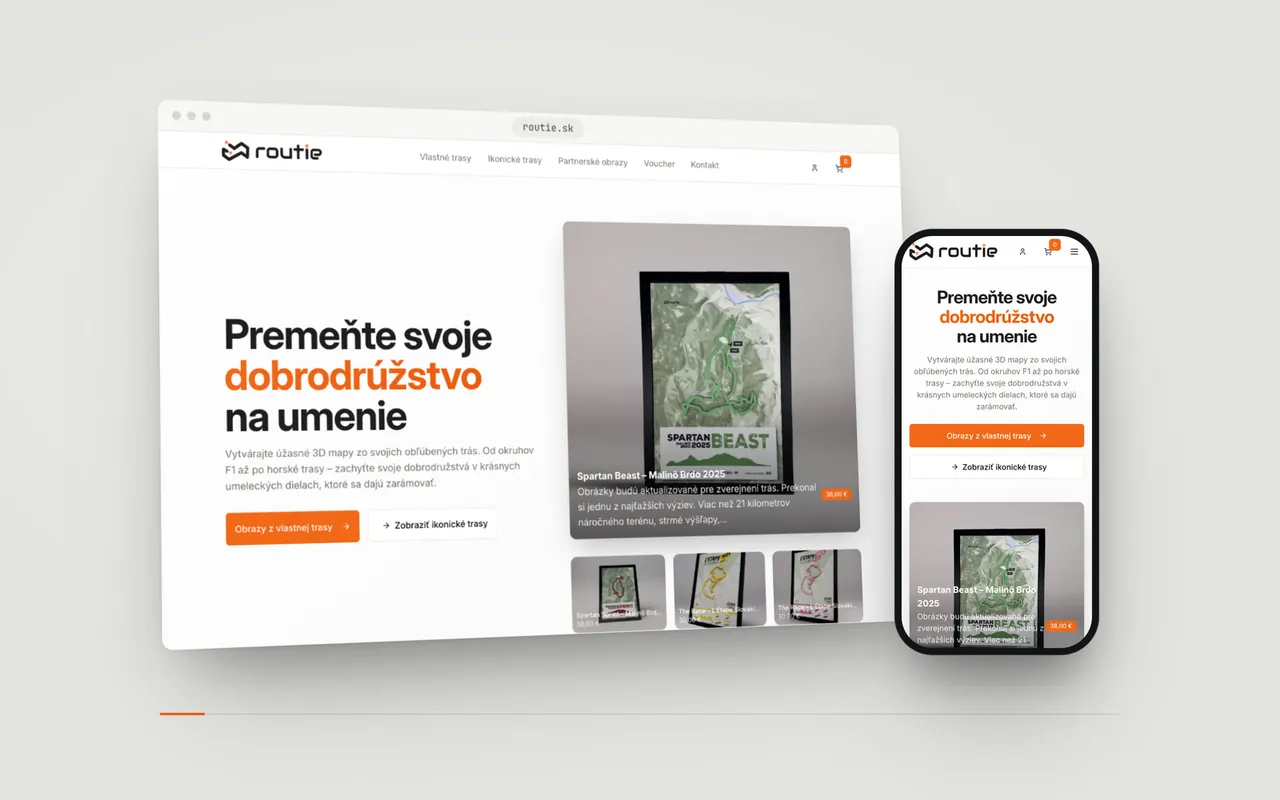
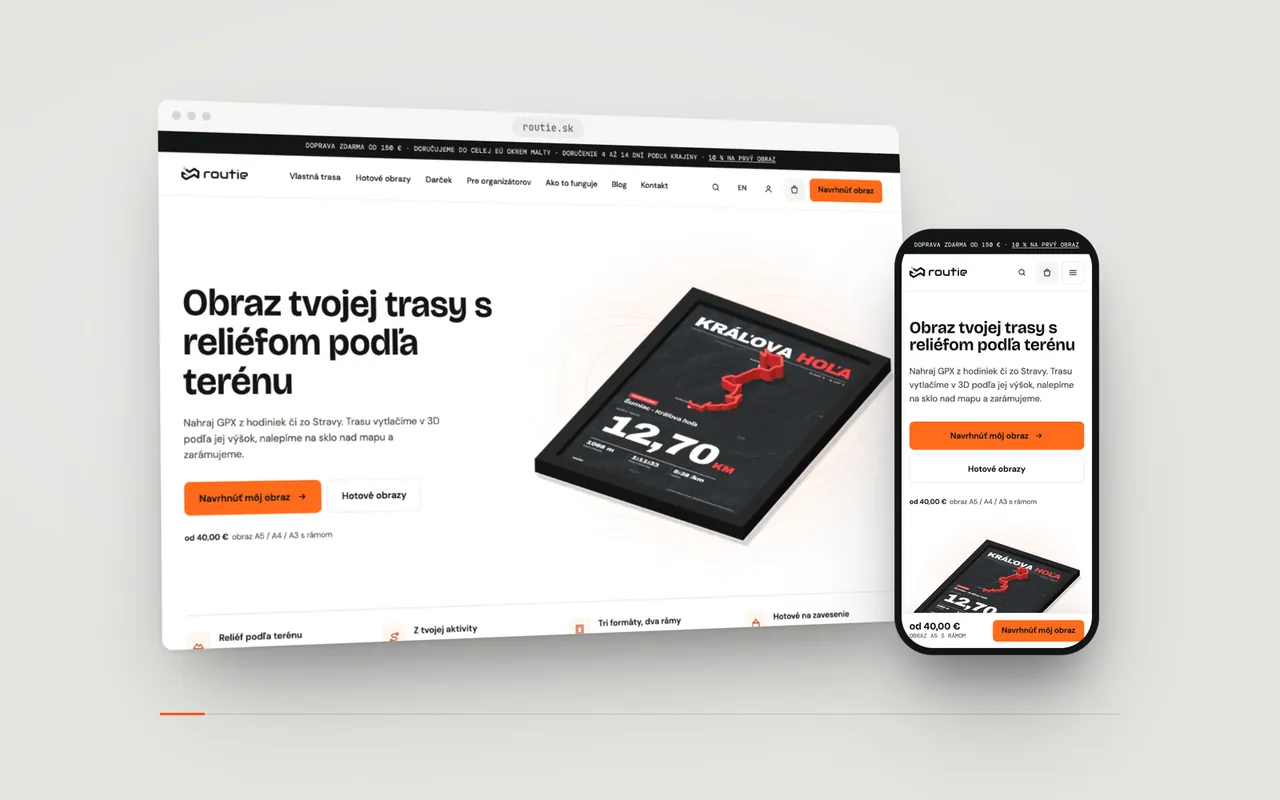
feat: describe Routie and Second Brain as they are today (#56)
Routie moved off WooCommerce on 7 November 2026 to its own Next.js
platform with a 3D configurator, so the card, the drawer and the
screenshot now show that platform. The facts follow the verified
Routie case study on denva.studio.

Second Brain is turning into an autonomous development platform:
tickets with acceptance criteria, an isolated multi-slot agent runner
and passkey approvals are live, the merge gate and staging deploy are
marked as in development.

The chat agent reads these facts, so the prompt revision is bumped.

Claude-Session: https://claude.ai/code/session_01GhjQq6FoLjw4fwNvkfQ3t9

diff --git a/shared/project-details-sk.ts b/shared/project-details-sk.ts
@@ -5,15 +5,17 @@ import type { ProjectDetailsBySlug } from './projects';
 // Every scope item is backed by the project's source code; keep it that way when editing.
 export const PROJECT_DETAILS_SK: ProjectDetailsBySlug = {
   'second-brain': {
-    summary: 'Osobný systém, ktorý zbiera poznámky, e-maily, články, hlasové správy aj fotky, triedi ich cez Claude a robí z nich prehľadávateľnú znalostnú bázu. Beží na dvoch miestach: riadiaca vrstva na Hetzner VPS, prepis reči, OCR a agenti na stále zapnutom Macu, prepojené cez Tailscale.',
+    summary: 'Osobný systém, ktorý zbiera poznámky, e-maily, články, hlasové správy aj fotky do prehľadávateľnej znalostnej bázy a postupne sa mení na autonómnu vývojovú platformu: agenti prevezmú úlohu s akceptačnými kritériami, naplánujú ju, implementujú a overia, človek schvaľuje len kľúčové kroky. Beží na Hetzner VPS a stále zapnutom Mac mini, prepojených cez Tailscale.',
     scope: [
       'RAG nad PostgreSQL 17 a pgvector: embeddingy bge-m3 v HNSW indexe, hybridné vyhľadávanie (vektory, fulltext a trigramy) spojené cez reciprocal rank fusion a reranker bge-reranker-v2-m3',
-      'Odpovede s citovanými zdrojmi a vlastný MCP server s nástrojmi na vyhľadávanie, otázky, zachytávanie poznámok a úlohy',
-      'Telegram bot na zachytávanie obsahu, rozhovor s asistentom a schvaľovanie krokov agentov',
-      'Coding agent nad Claude Agent SDK v oddelených git worktrees, v sandboxe bez prístupových údajov, s plánom na schválenie v Telegrame a pull requestom cez GitHub App',
-      'Na Apple Silicon: prepis reči cez mlx-whisper (aj v slovenčine) a OCR cez Apple Vision',
-      'Plánované joby vo fronte pg-boss: denné súhrny, kompilácia stránok znalostnej bázy, údržba a samoopravné úlohy',
-      'Docker Compose, Caddy a Cloudflare Access, deploy so zálohou databázy, health checkom a automatickým rollbackom, nočné zálohy s týždenným testom obnovy',
+      'Odpovede s citovanými zdrojmi, vlastný MCP server a Telegram bot na zachytávanie obsahu a rozhovor s asistentom',
+      'Úlohy s akceptačnými kritériami, ktoré sa pri schválení plánu zmrazia, a pravidlá autonómie pre každú organizáciu a projekt',
+      'Agent runner s piatimi paralelnými slotmi: každý beží ako samostatný systémový používateľ s vlastnými pravidlami firewallu a úlohy sa po páde obnovia',
+      'Schvaľovanie v dashboarde po overení passkey, Telegram posiela len odkaz na rozhodnutie',
+      'Znalosti v obyčajných súboroch verzovaných v gite, rozhodnutia zachytené na konci každej session a Command Center v SwiftUI s frontou toho, čo čaká na rozhodnutie',
+      'Na Apple Silicon: prepis reči cez mlx-whisper (aj v slovenčine) a OCR cez Apple Vision, plánované joby vo fronte pg-boss',
+      'Docker Compose a Caddy, deploy so zálohou databázy, health checkom a automatickým rollbackom, nočné zálohy s testom obnovy',
+      'Vo vývoji: merge gate a nasadenie na staging bez zásahu človeka, do produkcie až po schválení',
     ],
   },
   narodnyfutbalovystadion: {
@@ -50,13 +52,15 @@ export const PROJECT_DETAILS_SK: ProjectDetailsBySlug = {
     ],
   },
   routie: {
-    summary: 'Vlastný e-shop, kde si zákazník nahrá GPX trasu z behu, bicykla alebo túry a hneď vidí, ako bude vyzerať na mape. Ďalšia generácia s 3D reliéfom terénu a exportom pre 3D tlač je vo vývoji.',
+    summary: 'Vlastný produkt: obrazy z nahratých trás, kde je trasa vytlačená na 3D tlačiarni ako reliéf a nalepená na skle nad mapou v ráme. E-shop aj konfigurátor stoja na vlastnej platforme postavenej od nuly, ktorá od 7. 11. 2026 nahradila pôvodný WooCommerce obchod na routie.sk a routie.eu.',
     scope: [
-      'Nahratie GPX cez AJAX s overením typu a súkromným úložiskom, súbor putuje ďalej s objednávkou',
-      'Parsovanie GPX v prehliadači a vykreslenie trasy na mape MapLibre GL',
-      'Personalizácia: nadpis, podnadpis, popis a až 4 vlastné štatistiky, ktoré prechádzajú do košíka, objednávky, administrácie aj e-mailov',
-      'WooCommerce so Stripe, Packetou, PDF faktúrami a WPML',
-      'Vo vývoji: Next.js 16 a React 19 platforma s Postgres a Drizzle, 3D konfigurátor v three.js s reliéfom terénu a exportom STL v milimetroch, tlačové PDF a e2e testy',
+      'Vlastná commerce platforma: Next.js s App Routerom, TypeScript v strict režime, PostgreSQL a Drizzle; jadro je oddelené od Routie vrstvy a CI to overuje pokladňou syntetického obchodu bez jediného Routie balíka',
+      '3D konfigurátor v three.js a react-three-fiber: GPX, TCX alebo KML rozpoznané podľa obsahu súboru, 25 šablón, 3 formáty, 2 rámy a 17 mapových štýlov',
+      'Z jedného renderovacieho priechodu vznikne tlačové PDF v 300 dpi, náhľad pre zákazníka aj binárne STL v milimetroch, takže náhľad a výroba nemôžu opisovať dva rôzne obrazy',
+      'Kontrola pred výrobou: náhľad sa porovná s tlačovým súborom a pri odchýlke sa tlač zastaví, kým ju operátor neodomkne s dôvodom; render beží izolovane bez prístupu k databáze a sieti',
+      'Vlastné mapové dlaždice PMTiles (vyše 600 GB z OpenFreeMap a Mapterhorn), v žiadnej mapovej požiadavke nie je cudzí API kľúč',
+      'Stripe Payment Element s kartou, Apple Pay a Google Pay, Packeta do 26 krajín EÚ, slovenčina a angličtina na dvoch doménach',
+      'Prechod z WooCommerce so 129 presmerovaniami, všetky overené naživo',
     ],
   },
   monkeystudios: {

diff --git a/shared/project-details-en.ts b/shared/project-details-en.ts
@@ -5,15 +5,17 @@ import type { ProjectDetailsBySlug } from './projects';
 // Every scope item is backed by the project's source code; keep it that way when editing.
 export const PROJECT_DETAILS_EN: ProjectDetailsBySlug = {
   'second-brain': {
-    summary: 'A personal system that collects notes, emails, articles, voice messages and photos, classifies them with Claude and turns them into a searchable knowledge base. It runs in two places: the control plane on a Hetzner VPS, speech to text, OCR and agents on an always-on Mac, connected over Tailscale.',
+    summary: 'A personal system that collects notes, emails, articles, voice messages and photos into a searchable knowledge base, and is turning into an autonomous development platform: agents take a ticket with acceptance criteria, plan it, implement it and verify it, while a human approves only the key steps. It runs on a Hetzner VPS and an always-on Mac mini, connected over Tailscale.',
     scope: [
       'RAG on PostgreSQL 17 and pgvector: bge-m3 embeddings in an HNSW index, hybrid search (vectors, full text and trigrams) merged with reciprocal rank fusion and a bge-reranker-v2-m3 reranker',
-      'Answers with cited sources and its own MCP server with tools for search, questions, note capture and tasks',
-      'Telegram bot for capturing content, chatting with the assistant and approving agent steps',
-      'Coding agent on the Claude Agent SDK in separate git worktrees, sandboxed without credentials, with plans approved in Telegram and pull requests opened by a GitHub App',
-      'On Apple Silicon: speech to text with mlx-whisper (Slovak included) and OCR with Apple Vision',
-      'Scheduled jobs on a pg-boss queue: daily digests, knowledge base page compilation, maintenance and self-healing tasks',
-      'Docker Compose, Caddy and Cloudflare Access, deploys with a database backup, health check and automatic rollback, nightly backups with a weekly restore test',
+      'Answers with cited sources, its own MCP server and a Telegram bot for capturing content and chatting with the assistant',
+      'Tickets with acceptance criteria that freeze when the plan is approved, and autonomy rules per organisation and project',
+      'An agent runner with five parallel slots: each runs as a separate OS user with its own firewall rules, and work is recovered after a crash',
+      'Approvals in the dashboard behind a passkey check, Telegram only sends a link to the decision',
+      'Knowledge in plain files versioned in git, decisions captured at the end of every session, and a SwiftUI Command Center with a queue of what waits for a decision',
+      'On Apple Silicon: speech to text with mlx-whisper (Slovak included) and OCR with Apple Vision, scheduled jobs on a pg-boss queue',
+      'Docker Compose and Caddy, deploys with a database backup, health check and automatic rollback, nightly backups with a restore test',
+      'In development: a merge gate and staging deploys with no human in the loop, production only after approval',
     ],
   },
   narodnyfutbalovystadion: {
@@ -50,13 +52,15 @@ export const PROJECT_DETAILS_EN: ProjectDetailsBySlug = {
     ],
   },
   routie: {
-    summary: 'Own online store where customers upload a GPX route from a run, ride or hike and instantly see it on a map. The next generation, with 3D terrain relief and export for 3D printing, is in development.',
+    summary: 'Own product: prints of uploaded routes, where the route is 3D printed as a relief and glued onto glass above a map inside a frame. The shop and the configurator run on a custom platform built from scratch, which replaced the original WooCommerce store on routie.sk and routie.eu on 7 November 2026.',
     scope: [
-      'GPX upload over AJAX with a type check and private storage, the file travels with the order',
-      'GPX parsed in the browser and drawn as a route on a MapLibre GL map',
-      'Personalisation: headline, subtitle, description and up to 4 custom stats carried into the cart, order, admin and emails',
-      'WooCommerce with Stripe, Packeta, PDF invoices and WPML',
-      'In development: a Next.js 16 and React 19 platform with Postgres and Drizzle, a three.js 3D configurator with terrain relief and STL export in millimetres, print PDFs and e2e tests',
+      'Custom commerce platform: Next.js with the App Router, strict TypeScript, PostgreSQL and Drizzle; the core is separated from the Routie layer and CI proves it with a synthetic shop that checks out without loading a single Routie package',
+      'A 3D configurator in three.js and react-three-fiber: GPX, TCX or KML detected from the file contents, 25 templates, 3 formats, 2 frames and 17 map styles',
+      'One render pass produces the 300 dpi print PDF, the customer proof and a binary STL in millimetres, so the proof and the production files cannot describe two different prints',
+      'A check before production: the proof is compared with the print file and a mismatch blocks printing until an operator clears it with a reason; the render runs isolated, with no access to the database or the network',
+      'Self-hosted PMTiles map tiles (over 600 GB from OpenFreeMap and Mapterhorn), with no third-party API key in any map request',
+      'Stripe Payment Element with card, Apple Pay and Google Pay, Packeta to 26 EU countries, Slovak and English on two domains',
+      'The move off WooCommerce with 129 redirects, all verified on the live host',
     ],
   },
   monkeystudios: {

diff --git a/shared/projects.ts b/shared/projects.ts
@@ -42,10 +42,10 @@ export const PROJECT_INFO: readonly ProjectInfo[] = [
     slug: 'second-brain',
     context: 'own',
     featured: true,
-    kind: { sk: 'Osobný AI systém', en: 'Personal AI system' },
+    kind: { sk: 'Osobný AI systém a vývojová platforma', en: 'Personal AI system and dev platform' },
     desc: {
-      sk: 'Súkromný AI mozog: RAG nad pgvector, MCP server, Telegram bot a coding agent',
-      en: 'A private AI brain: RAG on pgvector, an MCP server, a Telegram bot and a coding agent',
+      sk: 'Znalostná báza s RAG nad pgvector a agenti, ktorí prevedú úlohu od zadania po pull request',
+      en: 'A RAG knowledge base on pgvector and agents that take a ticket from brief to pull request',
     },
   },
   {
@@ -91,10 +91,10 @@ export const PROJECT_INFO: readonly ProjectInfo[] = [
     slug: 'routie',
     context: 'own',
     featured: true,
-    kind: { sk: 'E-shop s mapovými artworkmi', en: 'Map artwork store' },
+    kind: { sk: 'E-shop s 3D konfigurátorom obrazov', en: 'Store with a 3D print configurator' },
     desc: {
-      sk: 'Vlastný e-shop: z nahratej GPX trasy živý náhľad mapy a personalizovaný obraz',
-      en: 'Own e-shop: a live map preview and a personalised print from an uploaded GPX route',
+      sk: 'Vlastná platforma na Next.js: z nahratej trasy 3D konfigurátor, tlačové PDF aj STL pre 3D tlačiareň',
+      en: 'Own Next.js platform: a 3D configurator that turns an uploaded route into a print PDF and an STL',
     },
   },
   {

diff --git a/worker/agent/prompt.test.ts b/worker/agent/prompt.test.ts
@@ -6,7 +6,7 @@ import { CONTACT_TOOL } from '../ask/openai';
 import { buildInstructions, PROMPT_VERSION, promptVersion } from './prompt';
 
 /** Update both together whenever the prompt text changes; the test below says when. */
-const PINNED = { version: '2026-10-22.2', hash: '23eea8b0514d' };
+const PINNED = { version: '2026-11-18.1', hash: '88ce4cf2c043' };
 
 async function promptHash(): Promise<string> {
   const year = 2026;
@@ -89,7 +89,7 @@ describe('buildInstructions', () => {
     expect(text).toContain(
       '- Projekt Národný futbalový štadión (narodnyfutbalovystadion.sk, web národného štadióna): robil ho na voľnej nohe pod značkou Denva (denva.studio).',
     );
-    expect(text).toContain('- Projekt Routie (routie.sk, e-shop s mapovými artworkmi): je to jeho vlastný projekt.');
+    expect(text).toContain('- Projekt Routie (routie.sk, e-shop s 3D konfigurátorom obrazov): je to jeho vlastný projekt.');
     expect(text).toContain(`- Portfólio: spolu ${PROJECT_INFO.length} projektov: ${PROJECT_INFO.map((p) => p.name).join(', ')}.`);
     expect(text).toContain('celý zoznam je v sekcii "Všetky projekty"');
     expect(text).not.toContain('(Ticketportal)');

diff --git a/worker/agent/prompt.ts b/worker/agent/prompt.ts
@@ -8,7 +8,7 @@ import { CONTACT_RULE, INTRO, RULES } from './rules';
  * runs and logged answers can be tied to a prompt revision. prompt.test.ts pins a hash of the
  * text next to this value and fails until both are updated.
  */
-export const PROMPT_VERSION = '2026-10-22.2';
+export const PROMPT_VERSION = '2026-11-18.1';
 
 /** Revision as logged and printed: the contact variant is marked, since it is a different prompt. */
 export function promptVersion(contact: boolean): string {
